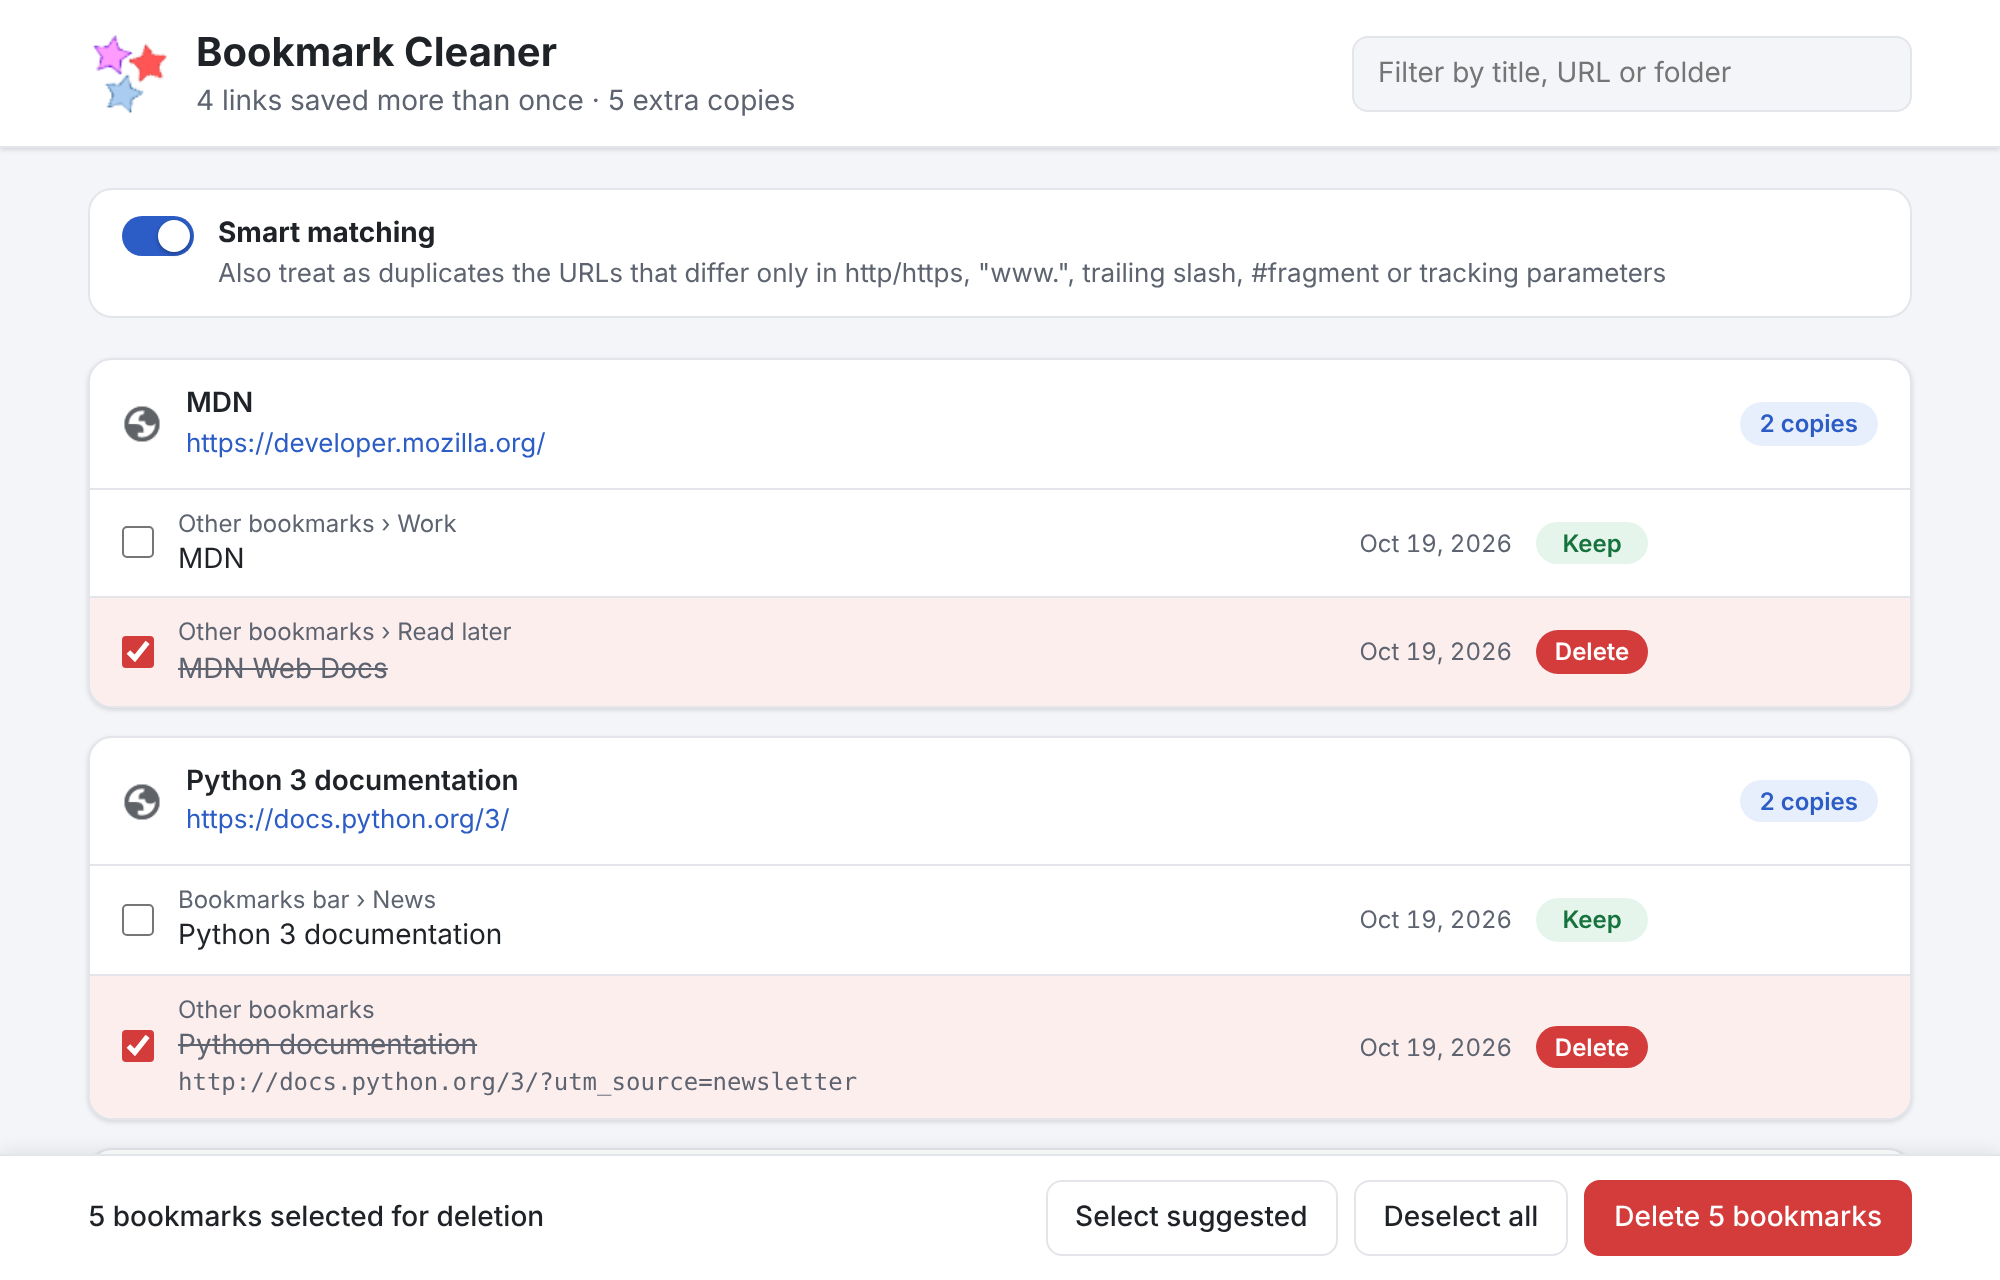
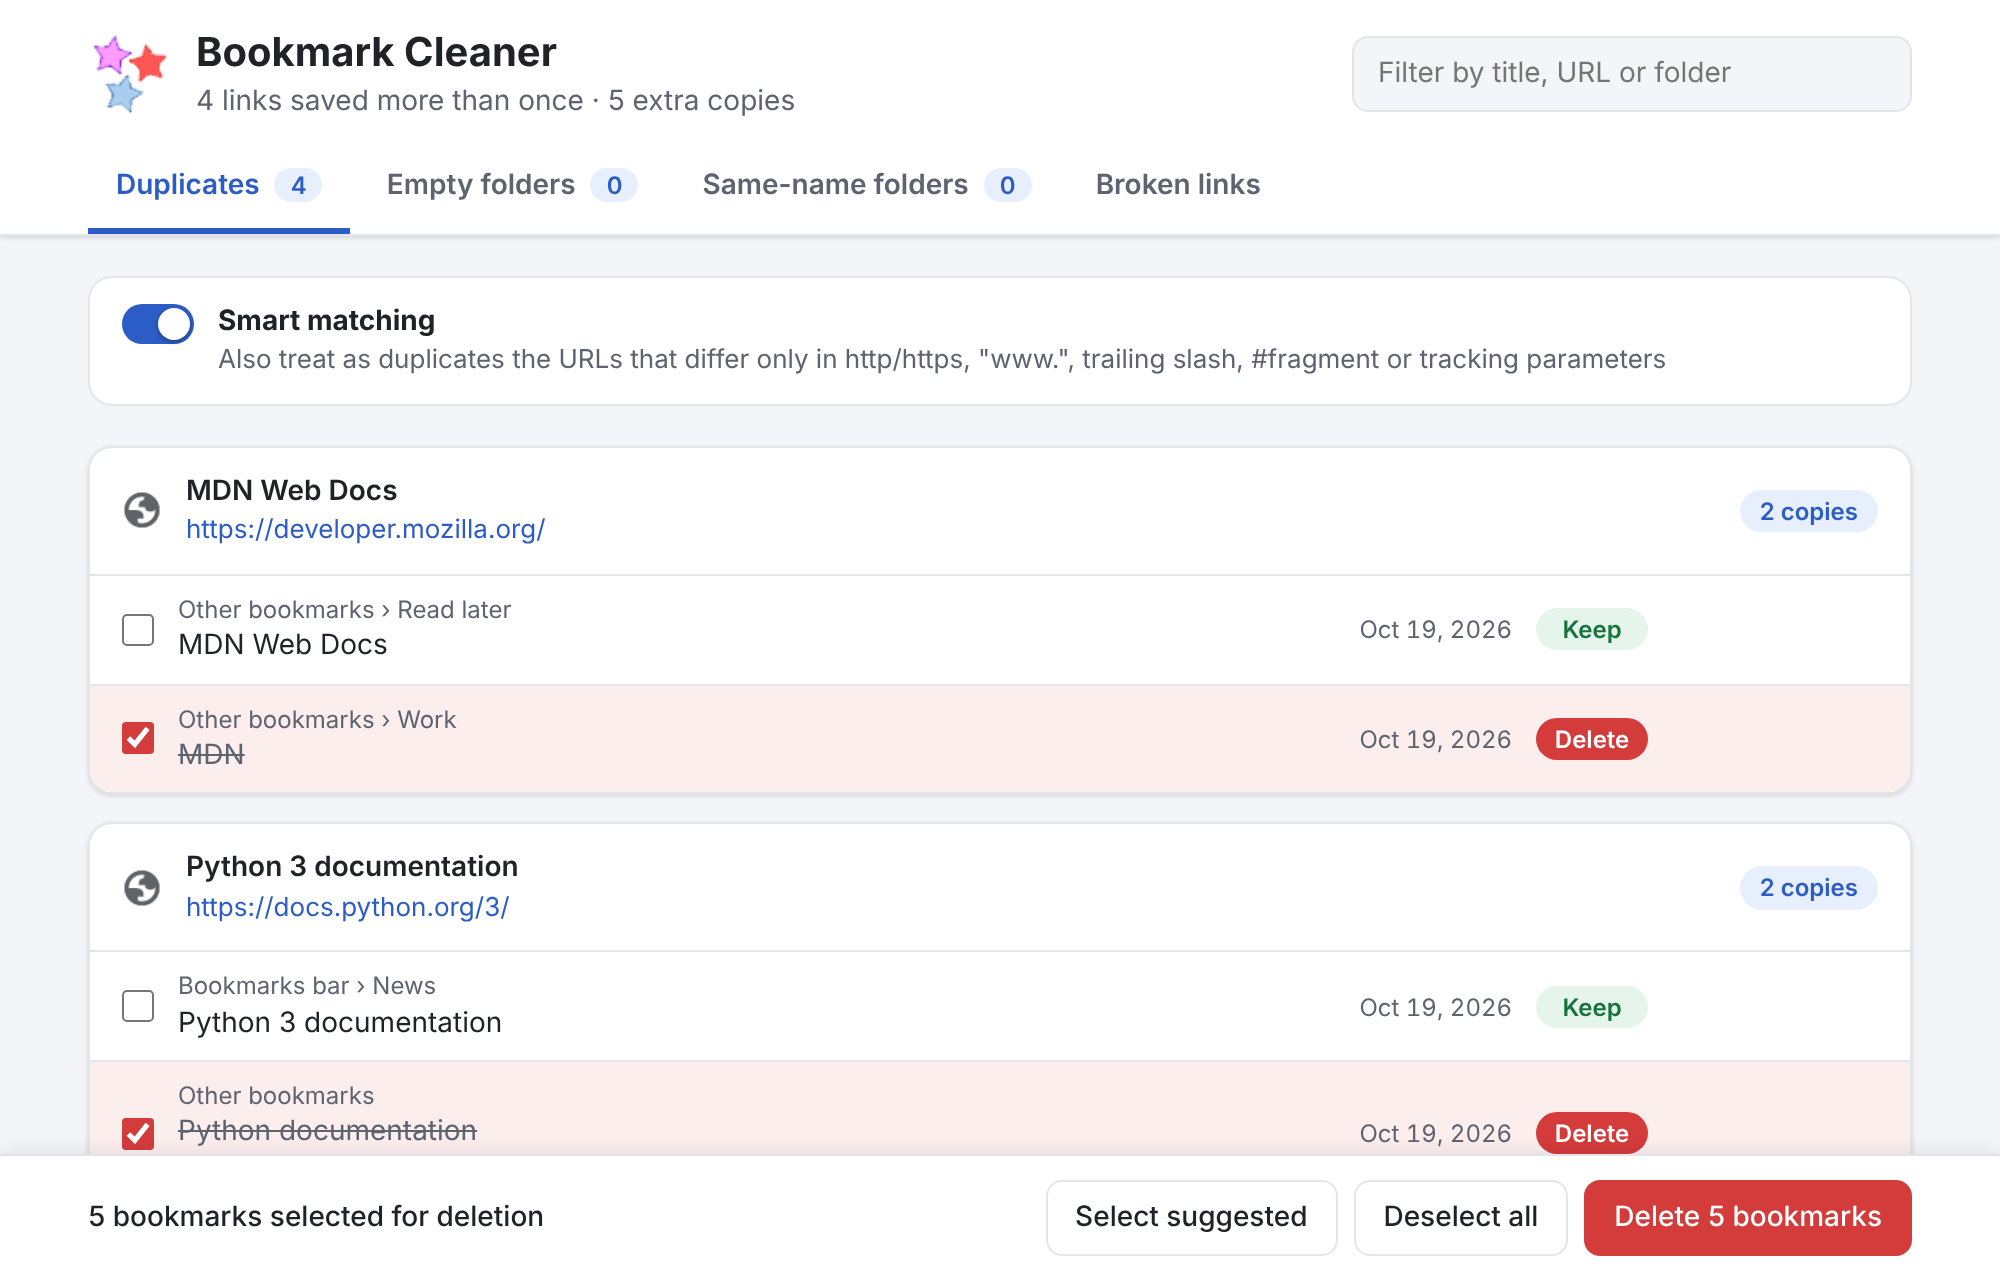
Update README, landing page and store material for 0.3.0
- describe the new tools; privacy text and badge no longer say "no
  network access", since the opt-in link check contacts the sites
- new screenshots with the tabs, broken links and empty folders
- store listing: justification for the optional host permissions

Closes #14.

Claude-Session: https://claude.ai/code/session_01EgB2BE6SAL3zHCu6oLk3Tw

diff --git a/docs/index.html b/docs/index.html
@@ -4,7 +4,7 @@
   <meta charset="utf-8">
   <meta name="viewport" content="width=device-width, initial-scale=1">
   <title>Bookmark Cleaner – Find and remove duplicate bookmarks in Chrome</title>
-  <meta name="description" content="Free, open-source Chrome extension that finds and removes duplicate bookmarks across all your folders. Smart URL matching, always keeps one copy, one-click undo. No tracking.">
+  <meta name="description" content="Free, open-source Chrome extension that finds and removes duplicate bookmarks, empty folders and broken links. Smart URL matching, always keeps one copy, one-click undo. No tracking.">
   <link rel="canonical" href="https://wiso.github.io/chrome-duplicates/">
   <link rel="icon" href="icon48.png">
   <meta name="theme-color" content="#2c5cc5">
@@ -24,10 +24,10 @@
     "@type": "SoftwareApplication",
     "name": "Bookmark Cleaner",
     "alternateName": "Bookmark Cleaner – Remove Duplicate Bookmarks",
-    "description": "Chrome extension that finds and removes duplicate bookmarks, with smart URL matching and undo.",
+    "description": "Chrome extension that finds and removes duplicate bookmarks, empty folders and broken links, with smart URL matching and undo.",
     "applicationCategory": "BrowserApplication",
     "operatingSystem": "Google Chrome, Chromium-based browsers",
-    "softwareVersion": "0.2.0",
+    "softwareVersion": "0.3.0",
     "url": "https://wiso.github.io/chrome-duplicates/",
     "downloadUrl": "https://chromewebstore.google.com/detail/bookmark-cleaner/apmbebpbnhlmonbpggbaljkinnfgpmki",
     "installUrl": "https://chromewebstore.google.com/detail/bookmark-cleaner/apmbebpbnhlmonbpggbaljkinnfgpmki",
@@ -60,8 +60,13 @@
       },
       {
         "@type": "Question",
+        "name": "Can it also remove empty folders and broken links?",
+        "acceptedAnswer": { "@type": "Answer", "text": "Yes. Besides duplicates, Bookmark Cleaner finds folders without bookmarks, merges folders with the same name in the same place, and, if you allow it, checks every bookmarked page to find the ones that do not exist anymore. Every change asks for confirmation and can be undone." }
+      },
+      {
+        "@type": "Question",
         "name": "Does Bookmark Cleaner send my bookmarks anywhere?",
-        "acceptedAnswer": { "@type": "Answer", "text": "No. It has no network access, no analytics and no tracking. It only reads your bookmarks and the site icons already cached by the browser, and everything stays on your computer." }
+        "acceptedAnswer": { "@type": "Answer", "text": "No. It has no analytics and no tracking, and it never sends your bookmarks anywhere. It contacts the bookmarked websites only if you start the optional broken-link check, which asks for your permission first and only checks whether each page still exists." }
       },
       {
         "@type": "Question",
@@ -132,7 +137,9 @@
         <div class="card"><h3>✅ Sensible defaults</h3><p>The oldest copy is kept and the others are pre-selected. Change it with a click or press “Keep only this”.</p></div>
         <div class="card"><h3>🛡 You can’t lose a bookmark</h3><p>At least one copy of each link is always kept, even if your bookmarks change while you decide.</p></div>
         <div class="card"><h3>↩ One-click undo</h3><p>Deleted bookmarks go back to their original folder and position.</p></div>
-        <div class="card"><h3>🔒 Private by design</h3><p>No network access, no analytics, no tracking. Your bookmarks never leave your computer.</p></div>
+        <div class="card"><h3>📁 Empty and same-name folders</h3><p>Removes folders without bookmarks and merges folders with the same name into one.</p></div>
+        <div class="card"><h3>🔗 Broken links (opt-in)</h3><p>Checks every bookmarked page and lists the ones that do not exist anymore. It runs only when you ask, after your permission.</p></div>
+        <div class="card"><h3>🔒 Private by design</h3><p>No analytics, no tracking. Your bookmarks never leave your computer.</p></div>
       </div>
     </section>
 
@@ -165,8 +172,10 @@
         <p>No. Bookmark Cleaner always keeps at least one copy of each link, asks for confirmation before deleting and offers an Undo button that puts the deleted bookmarks back in their original folder and position.</p></details>
       <details><summary>Does it find bookmarks that differ only slightly?</summary>
         <p>Yes. With smart matching on, links that differ only in http/https, www., a trailing slash, a #fragment or tracking parameters such as utm_source are treated as duplicates.</p></details>
+      <details><summary>Can it also remove empty folders and broken links?</summary>
+        <p>Yes. Besides duplicates, Bookmark Cleaner finds folders without bookmarks, merges folders with the same name in the same place, and, if you allow it, checks every bookmarked page to find the ones that do not exist anymore. Every change asks for confirmation and can be undone.</p></details>
       <details><summary>Does Bookmark Cleaner send my bookmarks anywhere?</summary>
-        <p>No. It has no network access, no analytics and no tracking. It only reads your bookmarks and the site icons already cached by the browser, and everything stays on your computer.</p></details>
+        <p>No. It has no analytics and no tracking, and it never sends your bookmarks anywhere. It contacts the bookmarked websites only if you start the optional broken-link check, which asks for your permission first and only checks whether each page still exists.</p></details>
       <details><summary>Does it work with synced bookmarks and other browsers?</summary>
         <p>It works on all the bookmarks in your Chrome profile, including those synced from other devices. It requires Chrome 104 or later and should also work in other Chromium-based browsers such as Edge and Brave.</p></details>
     </section>

diff --git a/store/listing.md b/store/listing.md
@@ -25,7 +25,7 @@ keyword in the name helps people searching for it. `short_name` keeps
 
 ## Summary (from `manifest.json`, max 132 characters)
 
-    Find and remove duplicate bookmarks. Smart URL matching, always keeps one copy, one-click undo. Private: no tracking.
+    Find and remove duplicate bookmarks, empty folders and broken links. Smart URL matching, one-click undo. Private: no tracking.
 
 ## Category
 
@@ -44,6 +44,9 @@ FEATURES
 • Sensible defaults: the oldest copy is kept, the others are pre-selected; each copy is clearly marked Keep or Delete
 • "Keep only this" to choose the copy to keep with one click
 • Filter by title, URL or folder to go through large collections
+• Empty folders: finds folders without bookmarks, also nested ones, and removes them
+• Same-name folders: merges folders with the same name in the same place into the oldest one
+• Broken links (opt-in): checks every bookmarked page and lists the ones that do not exist anymore, the unreachable sites and the server errors
 • You can't lose a bookmark: at least one copy of each link is always kept
 • Confirmation before deleting and one-click Undo: deleted bookmarks go back to their original folder and position
 • Always up to date: the list refreshes when your bookmarks change
@@ -53,12 +56,19 @@ HOW TO USE
 1. Click the Bookmark Cleaner icon in the toolbar.
 2. Review the duplicates, grouped by link.
 3. Press Delete, confirm, done. Press Undo if you change your mind.
+4. Use the other tabs for empty folders, same-name folders and broken links.
 
 PRIVATE BY DESIGN
-No network access, no analytics, no tracking. Bookmark Cleaner only reads your bookmarks and the site icons already cached by the browser; everything stays on your computer.
+No analytics, no tracking, and your bookmarks are never sent anywhere. Bookmark Cleaner reads your bookmarks and the site icons already cached by the browser. Only if you start the broken-link check does it ask for access to the sites, and then it just contacts each bookmarked page to see if it still exists; you can revoke the access at any time.
 
 FREE AND OPEN SOURCE
 MIT license. Source code, issues and ideas: https://github.com/wiso/chrome-duplicates
+```
+
+## What's new in 0.3.0
+
+```
+New tabs: remove empty folders, merge folders with the same name, and find broken links (opt-in, asks for permission first). Every change asks for confirmation and can be undone.
 ```
 
 ## What's new in 0.2.0
@@ -73,17 +83,39 @@ New design: one card per link with site icons, Keep/Delete labels, dates, filter
 | --- | --- |
 | `screenshot-1-duplicates.png` | Screenshot (1280×800) |
 | `screenshot-2-confirm.png` | Screenshot (1280×800) |
-| `screenshot-3-undo.png` | Screenshot (1280×800) |
-| `screenshot-4-dark.png` | Screenshot (1280×800) |
+| `screenshot-3-broken-links.png` | Screenshot (1280×800) |
+| `screenshot-4-empty-folders.png` | Screenshot (1280×800) |
+| `screenshot-5-dark.png` | Screenshot (1280×800) |
 | `promo-small-440x280.png` | Small promo tile |
 | `promo-marquee-1400x560.png` | Marquee promo tile |
 
 ## Privacy practices
 
-- Single purpose: find and remove duplicate bookmarks.
-- `bookmarks` permission: needed to read the bookmarks, find the duplicates and remove the ones the user selects.
-- `favicon` permission: shows the icon of each site, from the browser's local cache.
-- No remote code; no user data is collected or transmitted.
+Single purpose:
+
+```
+Clean up the user's bookmarks: find and remove duplicate bookmarks, empty folders, folders with the same name and bookmarks whose page does not exist anymore.
+```
+
+`bookmarks` permission:
+
+```
+The bookmarks permission is the core of the extension: it reads the user's bookmarks to find duplicates, empty folders, same-name folders and the links to check; it removes or merges only what the user selects and confirms, and restores it if the user presses Undo. Bookmarks are processed locally and never transmitted.
+```
+
+`favicon` permission:
+
+```
+The favicon permission is used only to show the icon of each website next to its bookmarks, so users can recognize the sites at a glance. Icons are read from the browser's local favicon cache through chrome-extension://<id>/_favicon/; no network request is made and no data leaves the user's computer.
+```
+
+Optional host permissions (`http://*/*`, `https://*/*`):
+
+```
+Host access is optional and requested at runtime only when the user clicks "Check links" in the Broken links tab. It is used to send a HEAD (or, if not supported, GET) request to each bookmarked URL, without cookies, to read only the HTTP status and find pages that no longer exist. No page content is read or stored, nothing is sent to any other server, and the user can revoke the access from the same tab.
+```
+
+Data usage: no user data is collected or transmitted; no remote code.
 
 ## Links
 

diff --git a/README.md b/README.md
@@ -21,7 +21,7 @@
   <a href="https://chromewebstore.google.com/detail/bookmark-cleaner/apmbebpbnhlmonbpggbaljkinnfgpmki"><img src="https://img.shields.io/chrome-web-store/v/apmbebpbnhlmonbpggbaljkinnfgpmki?label=Chrome%20Web%20Store" alt="Chrome Web Store version"></a>
   <a href="https://chromewebstore.google.com/detail/bookmark-cleaner/apmbebpbnhlmonbpggbaljkinnfgpmki"><img src="https://img.shields.io/chrome-web-store/users/apmbebpbnhlmonbpggbaljkinnfgpmki" alt="Chrome Web Store users"></a>
   <img src="https://img.shields.io/badge/Manifest-V3-blue" alt="Manifest V3">
-  <img src="https://img.shields.io/badge/network%20access-none-brightgreen" alt="No network access">
+  <img src="https://img.shields.io/badge/tracking-none-brightgreen" alt="No tracking">
   <img src="https://img.shields.io/badge/dependencies-none-brightgreen" alt="No dependencies">
   <a href="LICENSE"><img src="https://img.shields.io/badge/license-MIT-blue" alt="MIT license"></a>
 </p>
@@ -48,6 +48,13 @@ your other devices.
   this** on the copy you prefer. Every copy is clearly marked *Keep* or
   *Delete*.
 - 🔎 **Filter** by title, URL or folder to go through large collections.
+- 📁 **Empty folders**: finds folders without bookmarks (also nested ones)
+  and removes them.
+- 🗂 **Same-name folders**: merges folders with the same name in the same
+  place, moving everything into the oldest one.
+- 🔗 **Broken links** (opt-in): checks every bookmarked page and lists the
+  ones that do not exist anymore (404/410), the unreachable sites and the
+  server errors.
 - 🛡 **You can't lose a bookmark**: at least one copy of each link is always
   kept, even if things change while you are deciding.
 - ↩ **Undo**: changed your mind? One click puts every deleted bookmark back,
@@ -56,9 +63,11 @@ your other devices.
   change, without losing your selection.
 - 🌗 **Looks at home**: clean card layout with site icons, light and dark
   mode following your system.
-- 🔒 **Private by design**: no network access, no tracking, no analytics. It
-  only reads your bookmarks and the site icons already cached by the
-  browser, and everything stays on your computer.
+- 🔒 **Private by design**: no tracking, no analytics, no data sent anywhere.
+  It reads your bookmarks and the site icons already cached by the browser.
+  Only if you start the broken-link check does it ask for access to the
+  sites, and then it contacts each bookmarked page just to see if it still
+  exists; you can revoke the access at any time.
 - 🪶 **Lightweight**: a few kilobytes of plain JavaScript, no frameworks.
 
 ## How to use it
@@ -67,6 +76,8 @@ your other devices.
 2. Review the duplicates, grouped by link. Click a copy to switch it
    between *Keep* and *Delete*, or click the link to open it in a new tab.
 3. Press **Delete**, confirm, done. Press **Undo** if you need it.
+4. Use the other tabs to clean up empty folders, merge folders with the same
+   name and find broken links.
 
 ## Install
 
